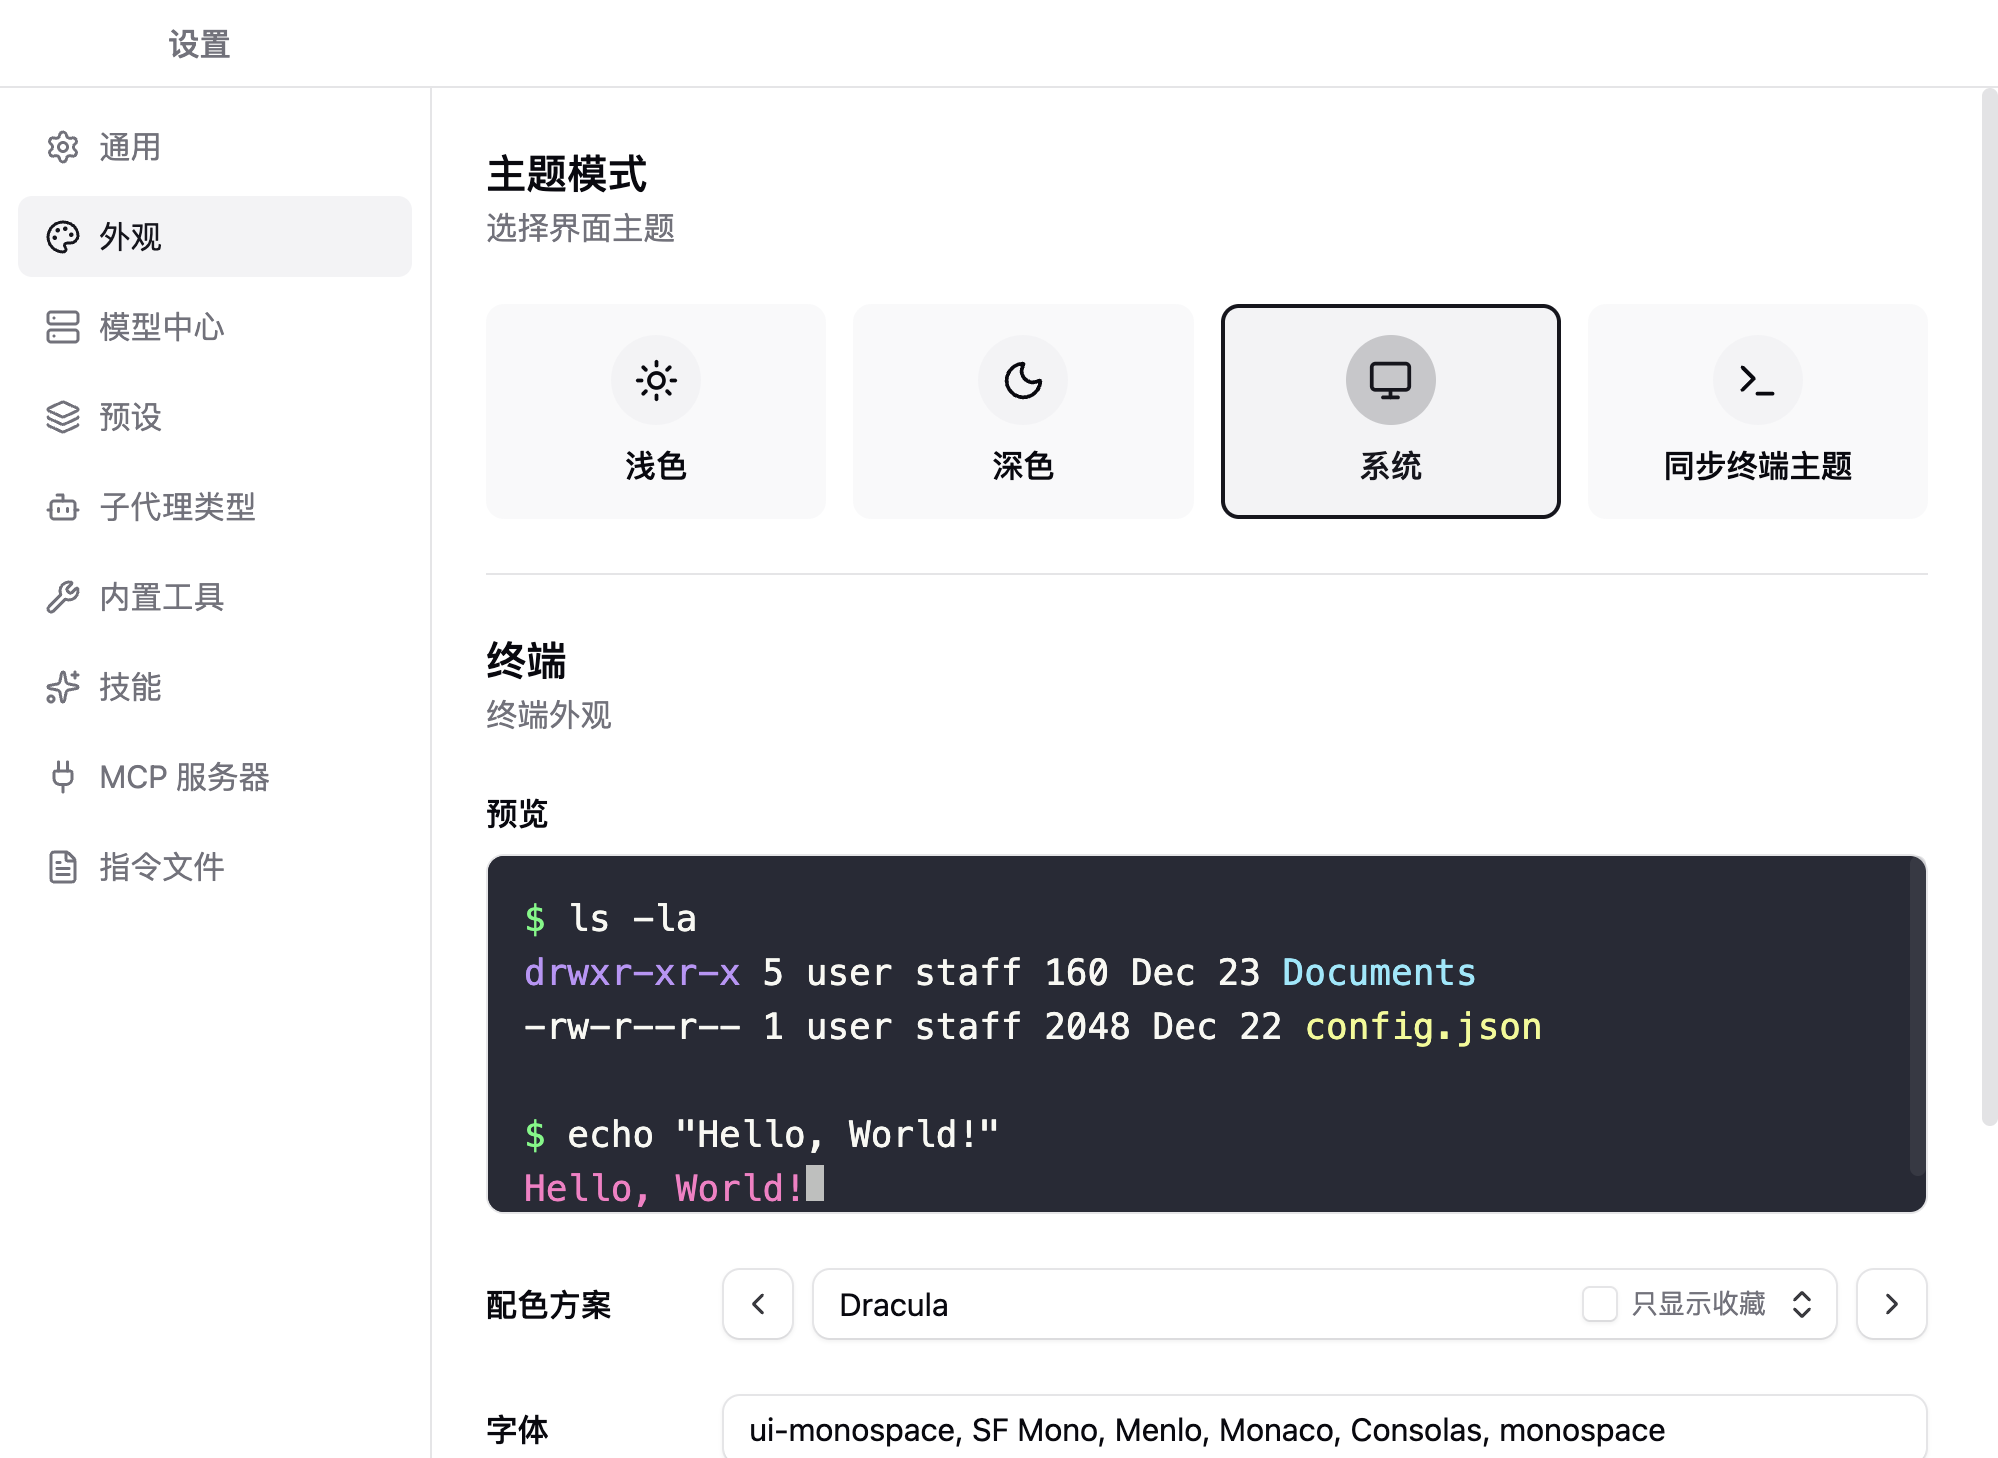
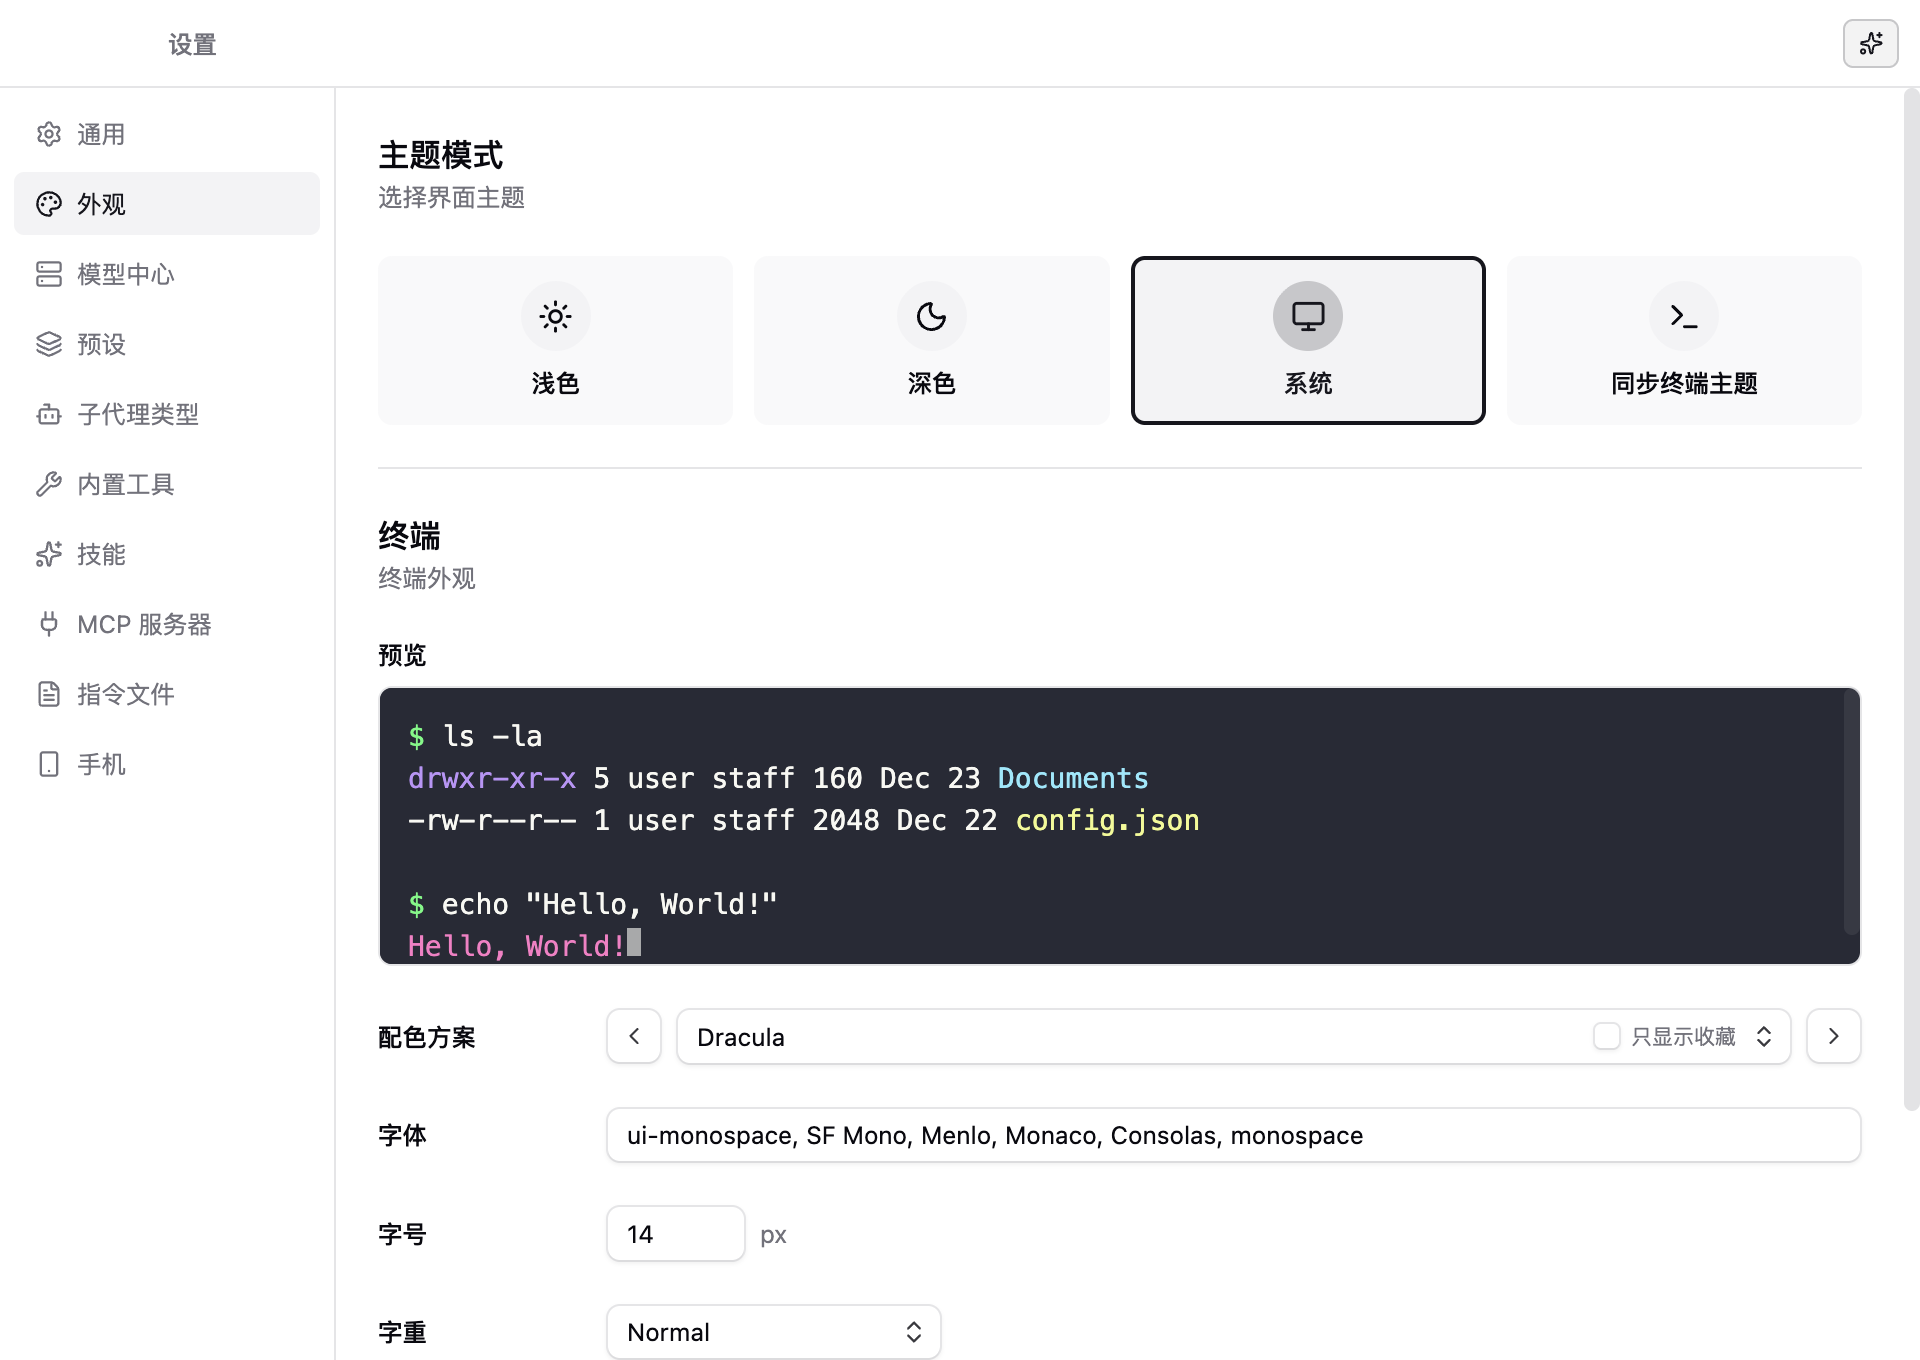
docs: 重构 README 文档并更新相关配图

diff --git a/README.md b/README.md
@@ -5,84 +5,131 @@
 <h1 align="center">EnsoCode</h1>
 
 <p align="center">
-  给 coding agent 一个能同时看住多个任务的桌面工作台
+  <b>一个人，带一队 Coding Agent</b>
 </p>
 
 <p align="center">
   <img src="https://img.shields.io/badge/license-MIT-5c6bc0?style=flat-square" alt="MIT" />
-  <img src="https://img.shields.io/badge/node-%3E%3D22-3c9d6e?style=flat-square" alt="Node ≥ 22" />
-  <img src="https://img.shields.io/badge/pnpm-10-f69220?style=flat-square" alt="pnpm 10" />
   <img src="https://img.shields.io/badge/platform-macOS%20%7C%20Windows%20%7C%20Linux-555?style=flat-square" alt="macOS, Windows, Linux" />
+  <img src="https://img.shields.io/badge/runtime-Electron%20%2B%20pi-blue?style=flat-square" alt="Electron + pi" />
 </p>
 
 <p align="center">
-  <img src="docs/readme/chat.png" alt="EnsoCode 对话工作台：多项目侧栏、技能胶囊、思考过程、内嵌 Diff 与目标栏" width="920" />
+  <img src="docs/readme/chat.jpg" alt="EnsoCode：桌面工作台与手机伴侣，同一会话两块屏幕" width="920" />
 </p>
 
-一边改结算页，一边盯分析接口，旁边还挂着设计系统——会话互不串，工具调用、补丁和目标都钉在时间线上。
+> 购物车等着上「第二件半价」，events 表的慢查询在报警，设计系统的圆角还没统一——三个仓库各挂一个会话，Agent 并行开工，补丁、命令和目标都摊在时间线上，你只管验收。
+> 人离开工位也不断线：审批与回合进度实时推到手机，路上点一下，Agent 接着干。
 
-## 做什么
+---
 
-EnsoCode 是本地 Electron 应用。把仓库、模型、技能和 MCP 收进一个窗口：多项目并行，长命令丢到后台，独立子任务交给 subagent，需要盯着跟进的活雇 coworker。技能以胶囊出现在输入框和对话里，改文件直接看 Diff，审批档位由你决定。
+## 💡 为什么是 EnsoCode
 
-已有 Claude Code、Codex 或 Cursor 的配置，引导页可以扫进来；某个项目上的 Claude Code / Codex 会话也可以导入接着聊。
+EnsoCode 是基于 [pi](https://github.com/earendil-works/pi) 内核构建的本地桌面 Agent 工作台（Electron）。它不只帮你写单点代码，更负责**调度与协同多 Agent 队伍**：
 
-## 功能
+- **分活有边界**：仓库挂进侧栏，一件事一个会话；同仓库并行开启独立 Git Worktree 隔离，互不踩踏。
+- **任务按需派发**：长命令丢后台运行，单点一次性任务派 **Subagent**，需要多轮跟进与记忆对齐的雇 **Coworker**。
+- **改动透明可控**：Diff 直接嵌入时间线，三档审批随时切，配备 Checkpoint 快照秒级回滚。
+- **离座不断线**：手机端轻量 PWA 伴侣，端到端加密直连，在路上也能翻阅时间线、审批并推进任务。
+- **无缝平替迁移**：一键扫入本机 Claude Code / Codex / Cursor 的配置、模型、MCP 与历史会话，开箱即用。
 
-| | |
-| --- | --- |
-| **多项目 / 多会话** | 侧栏同时挂多个仓库。每个会话有独立时间线、模型和预设。 |
-| **后台任务** | `bash` 设 `background: true`，dev server、watch、长构建立刻返回。输入框上方一行一个，可展开输出、可停。结束会通知 agent。 |
-| **Subagent** | 一次性、隔离上下文的子代理。适合能独立做完的活（调研一个模块、改一块独立代码）。同一条消息里多个 subagent 并行，交完报告就散。 |
-| **Coworker** | 持久子代理：自己的 tab、自己积累上下文、可多轮追问。你可以旁观，也可以直接在 tab 里插话。干完再解散。 |
-| **技能与斜杠胶囊** | 技能、斜杠命令在输入框和气泡里都是标签，不是一坨 XML。 |
-| **预设** | 把技能、MCP 和指令文件捆成一套。对话开始后锁定，避免中途换栈。 |
-| **导入本地应用** | 扫描 Claude Code、Codex、Cursor，勾选导入模型服务、技能、MCP 和全局指令。引导页和设置里都能做，每步可跳过。 |
-| **导入会话** | 在当前项目下扫描 Claude Code、Codex 的历史对话，预览后导入，接着聊。 |
-| **审批档位** | 工具调用按档位走：该停的停，该跑的跑。 |
-| **内嵌 Diff** | 读文件、改文件都在时间线里展开，补丁不用跳到别处。 |
-| **目标栏** | `/goal` 把当前任务钉在对话上方，长会话也不会跑偏。 |
-| **Ghostty 主题** | 终端配色同步到界面，收藏、搜索、跟随系统深浅色。 |
+---
 
-### 后台任务、Subagent、Coworker
+## ⚡ 核心特性
 
-三者分管不同粒度，不要混用。
+### 1. 分工调度：一件事一个会话，互不干扰
 
-**后台任务**是进程，不是另一个 agent。启动开发服务、跑 watch、打一发很长的构建：设 `background: true`，不要在命令末尾加 `&`。状态挂在输入框上方，点开看尾部输出，做完会叫醒当前会话。
+| 模式 / 机制 | 说明 |
+| :--- | :--- |
+| **多项目 & 多会话** | 侧栏聚合多个本地仓库。一件事一个独立会话：专属时间线、独立模型与预设，支持置顶与归档。 |
+| **Worktree 隔离** | 默认在主工作树工作；支持一键切入独立 Git Worktree（`enso/` 分支）。同仓库多任务并行开发，代码改动物理隔离。 |
+| **后台任务 (Process)** | 面向 Dev Server、Watch、长构建等纯进程任务。浮动于输入框上方，支持查看输出与终止，任务完成自动唤醒会话。 |
+| **Subagent (外包子代理)** | 适合自包含的一次性独立任务。在隔离上下文中执行，任务完成交付报告即销毁；支持单轮并行派发多个。 |
+| **Coworker (在编数字同事)** | 拥有独立 Tab 与持久化上下文的多轮子代理。支持直接在其 Tab 旁观、插话与追问，任务结束后随时解雇。 |
 
-**Subagent** 是一次性外包。给它一份自包含的任务说明（它不会回头问你），在隔离上下文里读、改、跑命令，最后交一份报告。一条消息里派出多个，它们并行。适合「去把这个目录摸清楚」「把这个独立改动做掉」；不适合需要连续跟进、或你想随时插手的活。
+> **🛡 Opt-in 的 Worktree 隔离机制**：
+> 默认直接在主工作树开发；开启隔离后，自动在项目外托管独立 Worktree 与 `enso/` 分支。侧栏直观呈现未提交改动与未合并提交，归档/清理均有防丢拦截，未合并分支绝不静默丢失。
 
-**Coworker** 是雇来的同事。spawn 一次给角色和首个任务，之后 send 追问，上下文一直攒着。每个 coworker 占一个 tab，你可以看着它干活，也可以自己回一句。默认异步：主会话不用干等，轮次结束会通知。活干完要 dismiss，别养一堆闲人。一次性子任务用 subagent；要多轮、要你盯着、要同一份记忆，用 coworker。
+---
 
-### 从本地带过来
+### 2. 审查与验收：时间线呈现，把控放行
 
-**导入本地应用**扫的是配置，不是聊天记录。首次启动或打开设置，从本机 Claude Code、Codex、Cursor 里勾选模型 API、技能、MCP 服务和指令文件。重复项会标出来，跳过任何一步都不影响之后再导。
+| 能力 | 说明 |
+| :--- | :--- |
+| **内嵌 Diff 视图** | 基于现代 Diff 渲染器，文件读写与 Patch 改动在对话流中直观展开，无需反复跳出查看。 |
+| **三档审批策略** | 提供 **全程逐项审批** / **自动接受编辑** / **完全放行** 三种档位，会话运行中可即时切换。 |
+| **Git Checkpoint** | 写入前自动生成工作树快照（存入 `refs/enso-checkpoints`，每会话上限 50 个），代码改乱随时无损还原。 |
 
-**导入会话**扫的是某个项目目录下的对话历史，目前支持 Claude Code 和 Codex。选一条、预览消息、导入后变成 EnsoCode 会话，可以接着问。Cursor 的配置能导，会话历史目前不能。
+---
+
+### 3. 跟进与协同：人离开，任务照常跑
+
+| 能力 | 说明 |
+| :--- | :--- |
+| **目标模式 (`/goal`)** | 将当前核心目标钉在会话顶部，Agent 自动拆解并持续推进（上限 25 轮），支持随时暂停与继续。 |
+| **插话队列 (Steer)** | Agent 执行期间支持将补充消息暂存队列（可随时编辑删除，轮末合并投递），紧急情况下支持立即 Steer 插队打断。 |
+| **智能重试机制** | 遇到网络抖动或瞬态 API 报错时自动倒计时重试，状态条清晰显示剩余时间与重试轮次。 |
+| **双屏手机伴侣** | 扫码即连的 PWA 伴侣端（端到端加密）。支持翻阅历史、插话、审批、回答交互式提问、推送通知直达。 |
 
 <p align="center">
-  <img src="docs/readme/appearance.png" alt="外观设置：Ghostty 终端主题、收藏与预览" width="920" />
+  <img src="docs/readme/phone.png" alt="手机配对：扫码即连，端到端加密，中继只见密文" width="920" />
 </p>
 
-## 运行
+> **🔒 隐私与手机伴侣**：
+> 手机端为纯 Web 标准 PWA，扫码即完成端到端加密（E2EE）握手。中继服务器（可自定义部署）仅透传密文；上行命令均经过白名单校验；系统推送由桌面直接向 Web Push 服务发起，不经过中继且不夹带对话私密文本。
 
-需要 **Node.js 22+** 和 [pnpm](https://pnpm.io)。
+---
+
+### 4. 资产继承与个性化
+
+| 能力 | 说明 |
+| :--- | :--- |
+| **技能、Slash 与 @ 引用** | 原生胶囊化 UI 展示，支持 `/skill:` 调起扩展技能，`@` 快速联想引用文件、Agent 类型与历史会话。 |
+| **运行时预设 (Presets)** | 将模型策略、技能组、MCP 服务和系统 Prompt 固化为预设方案，开局锁定以确保环境稳定。 |
+| **生态配置一键导入** | 自动扫描本机 Claude Code、Codex、Cursor 等环境，勾选导入模型 API、Skill、MCP 与 Instructions；支持直接导入历史对话。 |
+| **Ghostty 主题与外观** | 内置 Ghostty 终端配色引擎，支持收藏、搜索、自动跟随系统明暗色，可自由调节背景图、毛玻璃透明度与模糊度。 |
+| **可定制状态栏** | 自由勾选 Token 消耗、实时费用、运行耗时、上下文用量、Coworker 数量与审批档位。 |
+
+<p align="center">
+  <img src="docs/readme/appearance.png" alt="外观设置：Ghostty 终端主题、背景图与透明度调节" width="920" />
+</p>
+
+---
+
+## 🛠 本地开发与构建
+
+### 环境要求
+- **Node.js**: `>= 22.0.0`
+- **Package Manager**: [pnpm](https://pnpm.io) (`>= 10.0.0`)
+
+### 快速启动
 
 ```bash
-pnpm i
+# 1. 安装依赖
+pnpm install
+
+# 2. 启动桌面开发模式
 pnpm dev
 ```
 
-打包：
+### 多端打包
 
 ```bash
-pnpm build:mac    # macOS
-pnpm build:win    # Windows
-pnpm build:linux  # Linux
+pnpm build:mac    # 构建 macOS 应用 (.dmg / .zip)
+pnpm build:win    # 构建 Windows 安装包 (.exe)
+pnpm build:linux  # 构建 Linux 安装包 (.AppImage / .deb)
 ```
 
-首次启动会引导导入本地 AI 应用里的模型服务和资源，每一步都可以跳过，之后也能在设置里补。
+### 代码质量检查
 
-## 许可
+```bash
+pnpm typecheck    # TypeScript 类型检查
+pnpm lint         # Biome 静态代码规范检查
+pnpm test         # 运行 Vitest 单元测试套件
+```
 
-MIT
+---
+
+## 📄 开源许可
+
+本项目基于 [MIT License](LICENSE) 协议开源。
